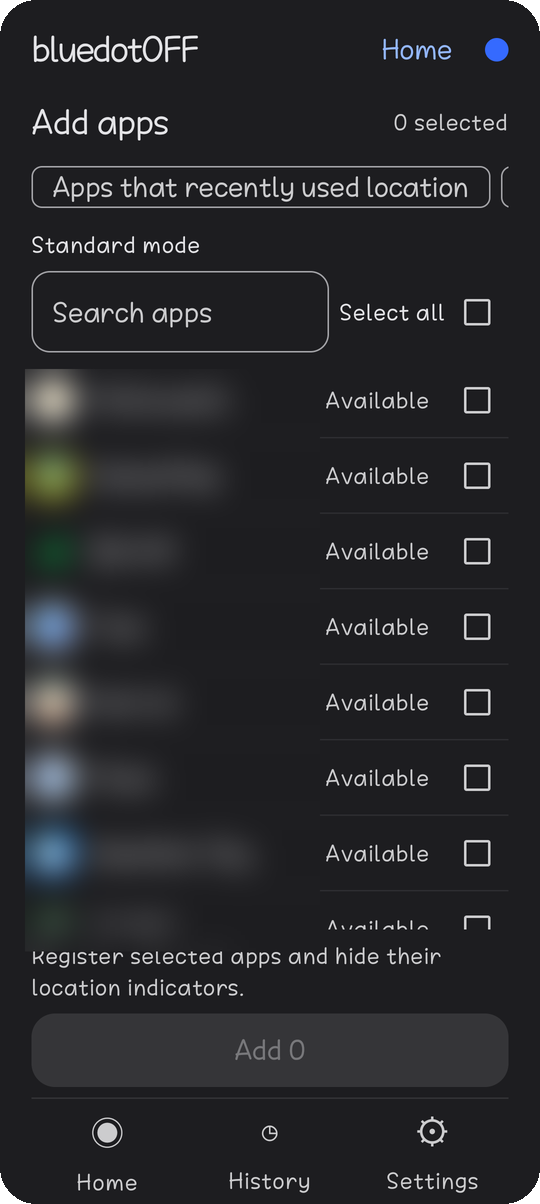
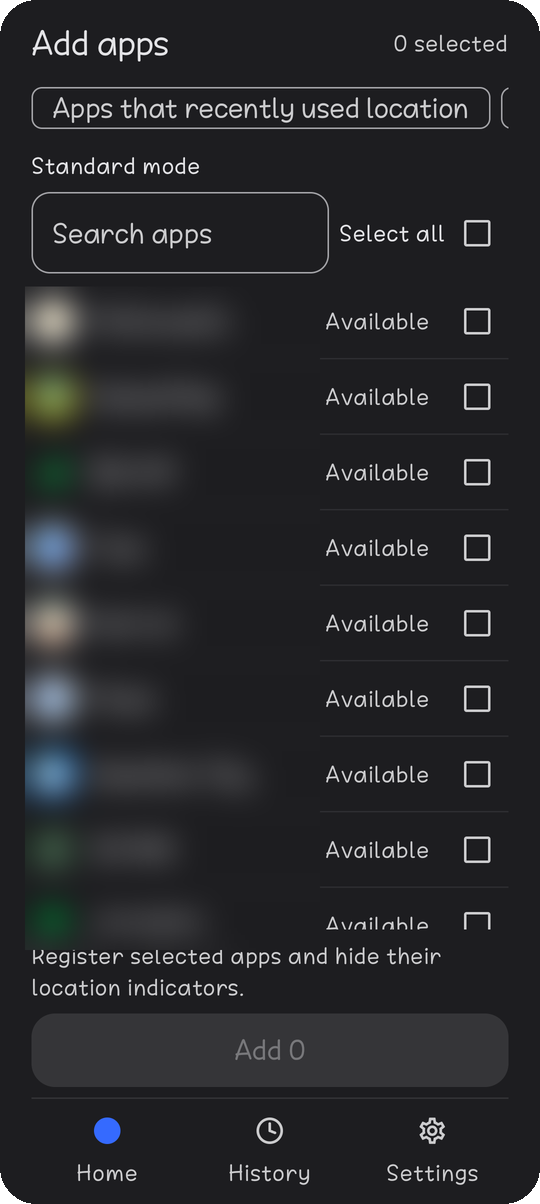
bluedotOFF 1.0.2: header only on Home and setup, blue-dot Home tab, less repeated wording

diff --git a/app/src/local/java/app/bluedotoff/BlueDotUi.kt b/app/src/local/java/app/bluedotoff/BlueDotUi.kt
@@ -21,6 +21,7 @@ import androidx.compose.foundation.shape.CircleShape
 import androidx.compose.foundation.shape.RoundedCornerShape
 import androidx.compose.foundation.verticalScroll
 import androidx.compose.material3.*
+import androidx.compose.material.icons.outlined.Settings
 import androidx.compose.runtime.*
 import androidx.compose.runtime.saveable.rememberSaveable
 import androidx.compose.ui.Alignment
@@ -49,7 +50,7 @@ import kotlinx.coroutines.launch
 
 private val DotBlue = BlueDotAppearance.dotBlue
 fun TargetState.label(): String = when(this) {
-    TargetState.APPLIED -> "bluedotOFF 적용 중"
+    TargetState.APPLIED -> "적용 중"
     TargetState.NOT_APPLIED -> "적용 안 됨"
     TargetState.PENDING_HIDE,TargetState.PENDING_RESTORE,TargetState.PENDING_SHOW -> "확인 필요"
     TargetState.NEEDS_REAPPLY_BOOT -> "재부팅 · 재적용 필요"
@@ -112,11 +113,12 @@ fun BlueDotApp(model: UiModel, navigate: (Page)->Unit, select: (String)->Unit, h
                 // the work overlay visually and from accessibility services.
                 val pageVisibility=if(model.busy&&!model.scopePreview)Modifier.alpha(0f).clearAndSetSemantics{} else Modifier
                 Column(Modifier.fillMaxSize().then(pageVisibility).padding(horizontal=if(wide)BlueDotAppearance.WIDE_GUTTER.dp else BlueDotAppearance.PAGE_GUTTER.dp)) {
-                    Row(Modifier.fillMaxWidth().heightIn(min=BlueDotAppearance.HEADER_HEIGHT.dp),verticalAlignment=Alignment.CenterVertically) {
+                    if(model.page==Page.HOME||model.gate!=Gate.READY)Row(Modifier.fillMaxWidth().heightIn(min=BlueDotAppearance.HEADER_HEIGHT.dp),verticalAlignment=Alignment.CenterVertically) {
                         Text(androidx.compose.ui.res.stringResource(R.string.brand_name),style=MaterialTheme.typography.headlineSmall,letterSpacing=(-0.8).sp,modifier=Modifier.weight(1f))
-                        if(model.page in listOf(Page.PICK,Page.RESTORE,Page.SHOW,Page.DETAIL,Page.REAPPLY,Page.HELP)) TextButton(onClick={navigate(Page.HOME)},enabled=!model.busy){Text("홈")}
+                        if(model.page==Page.HELP) TextButton(onClick={navigate(Page.HOME)},enabled=!model.busy){Text("홈")}
                         Box(Modifier.padding(start=12.dp).size(18.dp).background(DotBlue,CircleShape).semantics { contentDescription=UiText.text(context,"bluedotOFF 아이콘") })
                     }
+                    if(!(model.page==Page.HOME||model.gate!=Gate.READY))Spacer(Modifier.height(16.dp))
                     if(model.rechecking&&model.gate==Gate.READY&&!model.busy&&!(model.page==Page.PICK&&model.loadingApps)){
                         val sp=model.scanProgress
                         Column(Modifier.fillMaxWidth().padding(bottom=8.dp),verticalArrangement=Arrangement.spacedBy(4.dp)){
@@ -155,7 +157,7 @@ fun BlueDotApp(model: UiModel, navigate: (Page)->Unit, select: (String)->Unit, h
                     // Transparent so the bar follows the blue/system page background instead of floating as a gray block.
                     if(model.gate==Gate.READY)NavigationBar(containerColor=Color.Transparent,tonalElevation=0.dp) {
                         listOf(Page.HOME to "홈",Page.HISTORY to "기록",Page.SETTINGS to "설정").forEach{(page,label)->
-                            NavigationBarItem(selected=model.page==page,onClick={navigate(page)},enabled=!model.busy,icon={Text(when(page){Page.HOME->"◉";Page.HISTORY->"◷";else->"⚙"},fontSize=22.sp)},label={Text(label)})
+                            NavigationBarItem(selected=model.page==page,onClick={navigate(page)},enabled=!model.busy,icon={NavIcon(page)},label={Text(label)})
                         }
                     }
                 }
@@ -273,17 +275,18 @@ fun BlueDotApp(model: UiModel, navigate: (Page)->Unit, select: (String)->Unit, h
                     TextButton(onClick=open){Text("연결 준비")}
                 }
             }
-            Text(when{m.allLastVerifiedApplied->"bluedotOFF\n적용 완료";m.reapplyCount>0->"일부 앱의\n재적용이 필요해요";m.visibleEntries.any{it.enabled}->"일부 앱의\n상태 확인이 필요해요";else->"bluedotOFF\n미적용"},style=MaterialTheme.typography.displaySmall)
-            if(m.allLastVerifiedApplied)Text("${m.lastVerifiedAppliedCount}개 앱 bluedotOFF 적용 중",style=MaterialTheme.typography.bodyLarge,color=MaterialTheme.colorScheme.onSurfaceVariant)
+            Text(when{m.allLastVerifiedApplied->"적용 완료";m.reapplyCount>0->"일부 앱의\n재적용이 필요해요";m.visibleEntries.any{it.enabled}->"일부 앱의\n상태 확인이 필요해요";else->"미적용"},style=MaterialTheme.typography.displaySmall)
+            if(m.allLastVerifiedApplied)Text("${m.lastVerifiedAppliedCount}개 앱 적용 중",style=MaterialTheme.typography.bodyLarge,color=MaterialTheme.colorScheme.onSurfaceVariant)
             else if(m.visibleEntries.any{it.enabled}){
-                Text("${m.lastVerifiedAppliedCount}개 앱 bluedotOFF 적용 중",style=MaterialTheme.typography.bodyLarge,color=MaterialTheme.colorScheme.onSurfaceVariant)
+                Text("${m.lastVerifiedAppliedCount}개 앱 적용 중",style=MaterialTheme.typography.bodyLarge,color=MaterialTheme.colorScheme.onSurfaceVariant)
                 if(m.reapplyCount>0)Text("${m.reapplyCount}개 앱 · 재적용 필요",Modifier.fillMaxWidth().heightIn(min=48.dp).clip(RoundedCornerShape(12.dp)).clickable(role=androidx.compose.ui.semantics.Role.Button,onClick=showNeeded).padding(vertical=12.dp),style=MaterialTheme.typography.bodyMedium,color=MaterialTheme.colorScheme.primary)
                 if(m.otherCheckCount>0)Text("${m.otherCheckCount}개 앱 · 상태 확인 필요",style=MaterialTheme.typography.bodyMedium)
                 Text("완료된 앱은 유지하고, 필요한 앱만 확인해주세요.",style=MaterialTheme.typography.bodySmall,color=MaterialTheme.colorScheme.onSurfaceVariant)
             }else Text("신뢰하는 앱을 골라\n위치 표시만 가볍게 숨기세요.",style=MaterialTheme.typography.bodyLarge,color=MaterialTheme.colorScheme.onSurfaceVariant)
             if(m.lastCheckedAt>0L&&m.visibleEntries.any{it.enabled})Row(verticalAlignment=Alignment.CenterVertically){
                 val ctx=LocalContext.current
-                Text("${UiText.text(ctx,"마지막 확인")} ${UiText.text(ctx,accessAge(m.lastCheckedAt))}",style=MaterialTheme.typography.bodySmall,color=MaterialTheme.colorScheme.onSurfaceVariant,translate=false)
+                // Mid-sentence in English: "Last checked just now", not "Just now".
+                Text("${UiText.text(ctx,"마지막 확인")} ${UiText.text(ctx,accessAge(m.lastCheckedAt)).replaceFirstChar{it.lowercase()}}",style=MaterialTheme.typography.bodySmall,color=MaterialTheme.colorScheme.onSurfaceVariant,translate=false)
                 RefreshButton(m.rechecking,!m.busy&&m.canOperate,recheck)
             }
             m.recentHistoryApp?.let{a->
@@ -463,6 +466,23 @@ private fun pickerReason(a:DiscoveredApp,scope:ApplicationScope=ApplicationScope
     }
 }
 
+/** Bottom navigation icons share one 24dp frame so the three icons look the same size and the labels line up
+ *  (text glyphs such as ◷ and ⚙ had different heights). Home is the blue dot, the app's symbol. */
+@Composable private fun NavIcon(page:Page){
+    val color=LocalContentColor.current
+    Box(Modifier.size(24.dp),contentAlignment=Alignment.Center){
+        when(page){
+            Page.HOME->Box(Modifier.size(20.dp).background(DotBlue,CircleShape))
+            Page.HISTORY->androidx.compose.foundation.Canvas(Modifier.size(20.dp)){
+                val w=2.dp.toPx()
+                drawCircle(color,radius=size.minDimension/2-w/2,style=androidx.compose.ui.graphics.drawscope.Stroke(w))
+                drawLine(color,center,androidx.compose.ui.geometry.Offset(center.x,center.y-size.height*0.27f),w,cap=androidx.compose.ui.graphics.StrokeCap.Round)
+                drawLine(color,center,androidx.compose.ui.geometry.Offset(center.x+size.width*0.2f,center.y+size.height*0.08f),w,cap=androidx.compose.ui.graphics.StrokeCap.Round)
+            }
+            else->Icon(androidx.compose.material.icons.Icons.Outlined.Settings,contentDescription=null,modifier=Modifier.size(24.dp))
+        }
+    }
+}
 /** Small circular-arrow button; spins while the registered apps are being re-read. */
 @Composable private fun RefreshButton(spinning:Boolean,enabled:Boolean,onClick:()->Unit){
     val ctx=LocalContext.current;val color=MaterialTheme.colorScheme.primary

diff --git a/app/src/test/java/app/bluedotoff/UiRenderTest.kt b/app/src/test/java/app/bluedotoff/UiRenderTest.kt
@@ -163,7 +163,7 @@ class UiRenderTest {
         val entries=(0 until 3).map{base.copy(identity=base.identity.copy(packageName="demo.app$it"),label="앱 $it")}
         render("83-home-attention",model(applied=true).copy(entries=listOf(entries[0],entries[1].copy(state=TargetState.NEEDS_REAPPLY_POLICY),entries[2].copy(state=TargetState.SHIZUKU_REQUIRED))))
         compose.onNodeWithText("일부 앱의\n재적용이 필요해요").assertExists()
-        compose.onNodeWithText("1개 앱 bluedotOFF 적용 중").assertExists()
+        compose.onNodeWithText("1개 앱 적용 중").assertExists()
         compose.onNodeWithText("1개 앱 · 재적용 필요").assertExists()
         compose.onNodeWithText("1개 앱 · 상태 확인 필요").assertExists()
     }
@@ -226,7 +226,7 @@ class UiRenderTest {
         val outcome=BatchOutcome(true,listOf(BatchResult("demo.weather",base.entries.single())),base.entries,emptyList())
         render("74-completion-en",base.copy(connected=false,automaticReady=true,autoManagement=true,completion=outcome))
         compose.onNodeWithText(UiText.text(controller.get(),outcome.summary())).assertDoesNotExist()
-        compose.onNodeWithText("bluedotOFF applied · Last checked").assertExists()
+        compose.onNodeWithText("Applied · Last checked").assertExists()
         compose.onNodeWithText("Registered apps · 1").assertExists()
     }
     @Test @Config(fontScale=1.5f) fun progressIsReadableWithLargeText(){render("74-progress-large",model().copy(busy=true,progress=BatchProgress(35,70,BatchPhase.CHECKING)))}
@@ -258,6 +258,10 @@ class UiRenderTest {
         compose.onNodeWithContentDescription("Blue Dot").assertDoesNotExist()
     }
     @Test @Config(qualifiers="ko-rKR-w412dp-h915dp-night-xxhdpi") fun registeredListAndConnectionNoticeInDarkTheme(){render("79-home-dark-offline",model(applied=true).copy(connected=false,automaticReady=false))}
+    @Test @Config(qualifiers="en-rUS-w412dp-h915dp-xxhdpi") fun englishLastCheckedReadsAsOneSentence(){
+        render("79-home-en-last-checked",model(applied=true).copy(lastCheckedAt=System.currentTimeMillis()))
+        compose.onNodeWithText("Last checked just now").assertExists()
+    }
     @Test @Config(qualifiers="en-rUS-w412dp-h915dp-xxhdpi") fun simpleEnglishHomeAndHiddenPicker(){
         render("79-home-en",model(applied=true))
         val off=DiscoveredApp("demo.off","Example",10002,launcher=true,hasLocationDeclaration=true,indicator=IndicatorAssessment(IndicatorEligibility.EXEMPT_SYSTEM_USAGE,true,0x100))
@@ -311,7 +315,7 @@ class UiRenderTest {
     @Test fun uninstalledAppShowsAsNoActionNeeded(){
         val base=model(applied=true);val gone=base.entries.single().let{it.copy(identity=it.identity.copy(packageName="demo.gone"),label="삭제앱",state=TargetState.MISSING_TARGET,settlingVerified=false)}
         render("87-home-uninstalled",base.copy(entries=base.entries+gone))
-        compose.onNodeWithText("삭제앱").assertDoesNotExist();compose.onNodeWithText("등록한 앱 · 1개").assertExists();compose.onNodeWithText("1개 앱 bluedotOFF 적용 중").assertExists();compose.onNodeWithText("상태 확인 필요",substring=true).assertDoesNotExist()
+        compose.onNodeWithText("삭제앱").assertDoesNotExist();compose.onNodeWithText("등록한 앱 · 1개").assertExists();compose.onNodeWithText("1개 앱 적용 중").assertExists();compose.onNodeWithText("상태 확인 필요",substring=true).assertDoesNotExist()
     }
     @Test fun advancedSettingsListsOpenSourceLicenses(){
         render("88-settings",model(page=Page.SETTINGS))
@@ -347,13 +351,13 @@ class UiRenderTest {
     @Test fun blueHome(){render("05-blue-home",model());compose.onNodeWithText("앱 추가").assertExists()}
     @Test fun scopeChoiceDoesNotRewindProgressDuringFinalRead(){render("81-scope-final-read",model(gate=Gate.CHECKING).copy(scopeResolved=true));compose.onNodeWithText("연결 준비 · 11 / 11").assertExists();compose.onNodeWithText("연결 준비 · 10 / 11").assertDoesNotExist()}
     @Test fun applying(){render("06-applying",model().copy(busy=true));compose.onNodeWithText("적용하고 안전하게 확인하고 있어요").assertExists();compose.onNodeWithText("끝날 때까지 이 화면을 열어 두세요. 앱을 나가면 남은 앱은 바꾸지 않아요.").assertExists()}
-    @Test fun appliedHome(){render("07-applied-system-theme",model(applied=true));compose.onNodeWithText("bluedotOFF\n적용 완료").assertExists()}
+    @Test fun appliedHome(){render("07-applied-system-theme",model(applied=true));compose.onNodeWithText("적용 완료").assertExists()}
     @Test fun successfulHideUsesHomeSummaryAndRetainsClosureWarnings(){
         val base=model(applied=true)
         val done=BatchOutcome(true,listOf(BatchResult("demo.weather",base.entries.single())),base.entries,emptyList())
         render("24-home-applied",base.copy(completion=done))
         compose.onNodeWithText(done.summary()).assertDoesNotExist()
-        compose.onNodeWithText("1개 앱 bluedotOFF 적용 중").assertExists()
+        compose.onNodeWithText("1개 앱 적용 중").assertExists()
         compose.onNodeWithText("설정 변경 연결").assertDoesNotExist()
         render("24-home-closure-warning",base.copy(completion=done.copy(cleanupWarning="연결 종료 확인 필요"),wirelessWarning="연결 종료 확인 필요"))
         compose.onNodeWithText("연결 종료 확인 필요").assertExists()
@@ -392,7 +396,7 @@ class UiRenderTest {
     @Test fun unsupported(){render("12-unsupported",model(gate=Gate.UNSUPPORTED));compose.onNodeWithText("이 기기는 지원하지 않아요").assertExists();compose.onNodeWithText("bluedotOFF 적용").assertDoesNotExist()}
     @Test fun compatibilityPass(){render("13-ready",model().copy(entries=emptyList()));compose.onNodeWithText("준비 완료").assertExists()}
     @Test fun pickerAndSharedUid(){val e=model().entries.single();val s=Snapshot(e.identity,"날씨",listOf(e.identity.packageName,"shared.peer"),true,true,true,false,0x80301,0x301,0,4,4,false);render("14-picker-shared",model(page=Page.PICK).copy(candidates=listOf(s)));compose.onNodeWithText("다른 앱과 묶여 있어요 · 함께 선택돼요").assertExists();compose.onNodeWithText("현재 적용할 수 없는 앱",substring=true).assertDoesNotExist();compose.onNodeWithText("0개 추가").assertIsNotEnabled()}
-    @Test fun cachedAppliedIsNotDisplayedAsVerified(){render("17-cached-stale",model(applied=true).copy(connected=false,freshPackages=emptySet()));compose.onNodeWithText("Blue Dot\nbluedotOFF 적용 중").assertDoesNotExist();compose.onNodeWithText("bluedotOFF 적용 중 · 마지막 확인 기준").assertExists()}
+    @Test fun cachedAppliedIsNotDisplayedAsVerified(){render("17-cached-stale",model(applied=true).copy(connected=false,freshPackages=emptySet()));compose.onNodeWithText("Blue Dot\nbluedotOFF 적용 중").assertDoesNotExist();compose.onNodeWithText("적용 중 · 마지막 확인 기준").assertExists()}
     @Test fun multiSelectionSurvivesQueryAndReturn(){val m=model(page=Page.PICK);val id=m.entries.single().identity;val a=Snapshot(id,"날씨",listOf(id.packageName),true,true,true,false,0x80301,0x301,0,4,4,false);render("18-multiselect",m.copy(candidates=listOf(a),picked=setOf(id.packageName),query="no match",historyAvailable=true));compose.onNodeWithText("1개 추가").assertIsEnabled();compose.onNodeWithText("1개 선택됨").assertExists();compose.onNodeWithText("선택한 앱을 등록하고 파란 위치 표시를 숨겨요.").assertExists()}
     @Test fun safeDetail(){val e=model().entries.single();val s=Snapshot(e.identity,"날씨",listOf(e.identity.packageName),true,true,true,false,0x80301,0x301,0,4,4,false);render("15-safe-detail",model(page=Page.DETAIL).copy(selected=e.identity.packageName,candidates=listOf(s)));compose.onNodeWithText("bluedotOFF 재적용").assertIsEnabled()}
     @Test fun sharedUidDetailBlocksHide(){val e=model().entries.single();val s=Snapshot(e.identity,"날씨",listOf(e.identity.packageName,"shared.peer"),true,true,true,false,0x80301,0x301,0,4,4,false);render("16-blocked-detail",model(page=Page.DETAIL).copy(selected=e.identity.packageName,candidates=listOf(s)));compose.onNodeWithText("bluedotOFF 재적용").assertIsNotEnabled()}

diff --git a/app/src/test/java/app/bluedotoff/UiTextTest.kt b/app/src/test/java/app/bluedotoff/UiTextTest.kt
@@ -24,7 +24,7 @@ class UiTextTest {
     }
     @Test fun dynamicCountsAndCompletionTranslateWithoutTouchingValues(){
         assertEquals("35 / 70 apps checked · 50%",UiText.text(language("en"),"35 / 70개 확인 · 50%"))
-        assertEquals("bluedotOFF applied to 70 apps.",UiText.text(language("en"),"70개 앱에 bluedotOFF 적용 완료"))
+        assertEquals("Applied to 70 apps.",UiText.text(language("en"),"70개 앱 적용 완료"))
         assertEquals("Example app icon",UiText.text(language("en"),"Example app 아이콘"))
         assertEquals("카카오맵",UiText.text(language("en"),"카카오맵"))
     }
@@ -43,7 +43,7 @@ class UiTextTest {
         val entry=app.bluedotoff.core.Entry(id,"app",256,true,app.bluedotoff.core.TargetState.APPLIED,1,"fw","boot",true,settlingVerified=true)
         val model=UiModel(entries=listOf(entry),connected=false)
         assertTrue(model.allLastVerifiedApplied)
-        assertEquals("bluedotOFF applied · Last checked",UiText.text(language("en"),model.status(entry)))
+        assertEquals("Applied · Last checked",UiText.text(language("en"),model.status(entry)))
         assertFalse(model.copy(entries=listOf(entry.copy(state=app.bluedotoff.core.TargetState.NEEDS_REAPPLY_BOOT))).allLastVerifiedApplied)
     }
 }

diff --git a/app/src/main/java/app/bluedotoff/BatchRuntime.kt b/app/src/main/java/app/bluedotoff/BatchRuntime.kt
@@ -33,8 +33,8 @@ fun BatchOutcome.summary():String {
     val success=results.count{it.success}
     val failed=results.size-success
     return if(failed==0&&error.isBlank()) {
-        if(hide)"${success}개 앱에 bluedotOFF 적용 완료" else if(show)"${success}개 앱의 숨김을 풀었어요." else "${success}개 앱을 원래 표시 상태로 복원했어요."
+        if(hide)"${success}개 앱 적용 완료" else if(show)"${success}개 앱의 숨김을 풀었어요." else "${success}개 앱을 원래 표시 상태로 복원했어요."
     } else {
-        if(hide)"bluedotOFF 적용 ${success}개 · 확인 필요 ${failed}개" else if(show)"숨김 풀기 ${success}개 · 확인 필요 ${failed}개" else "원래 상태 복원 ${success}개 · 확인 필요 ${failed}개"
+        if(hide)"적용 ${success}개 · 확인 필요 ${failed}개" else if(show)"숨김 풀기 ${success}개 · 확인 필요 ${failed}개" else "원래 상태 복원 ${success}개 · 확인 필요 ${failed}개"
     }
 }

diff --git a/app/src/main/java/app/bluedotoff/UiModel.kt b/app/src/main/java/app/bluedotoff/UiModel.kt
@@ -92,8 +92,8 @@ data class UiModel(val gate: Gate = Gate.CHECKING, val page: Page = Page.HOME, v
     }
     fun status(e:Entry) = if(e.state==TargetState.APPLIED) when {
         !e.settlingVerified -> "적용 확인 필요"
-        connected&&e.identity.packageName in freshPackages -> "bluedotOFF 적용 중"
-        else -> "bluedotOFF 적용 중 · 마지막 확인 기준"
+        connected&&e.identity.packageName in freshPackages -> "적용 중"
+        else -> "적용 중 · 마지막 확인 기준"
     } else e.state.label()
 }
 

diff --git a/AGENTS.md b/AGENTS.md
@@ -212,6 +212,7 @@ those files; bump `versionName`/`versionCode` in `app/build.gradle.kts` first.
 - Home card "파란 위치 표시가 꺼진 앱 N개" has "닫기" (owner: it showed every time); closing is permanent (pref ui-state/leftOffCardClosed), Settings keeps the entry. Device-tested: closed, force-stopped, reopened -> stays closed.
 - Owner decision (2026-10-11, supersedes the two entries above on naming/first-use/home card): no first-use question and no Home card; the feature lives only in Settings as "숨김이 남은 앱 (재설치 시에만)" -> page "숨김이 남은 앱", rows "숨김 남음 · 기록 없음", action "숨김 풀기". `usedBefore`/`leftOffCardClosed` removed (old prefs keys on devices are ignored).
 - Final 1.0.1 copy (owner): welcome first line "앱은 최소한의 권한으로 작동해요. 그래서 일부 앱은 스스로 설정을 바꿔서 숨김이 짧은 주기로 풀릴 수 있어요."; Settings reapply notification adds "절전 모드에서는 알림이 오지 않을 수 있어요." (README/CHANGELOG updated).
+- 1.0.2 (versionCode 29, owner requests 2026-10-11): the top header row (brand + dot) only on Home and while not set up (Gate != READY); other pages start with their own title (HEADER "홈" button only on Help during setup). Bottom navigation icons share a 24dp frame (`NavIcon`: Home = blue dot, History = drawn clock, Settings = material-icons-core outlined gear, no new dependency) so labels line up. Home no longer repeats "bluedotOFF" under the header ("적용 완료", "미적용", "N개 앱 적용 중", status "적용 중"; batch summary "적용 N개 · 확인 필요 M개"). English "Last checked just now" (lowercased age). README screenshots retaken (ko + en), English before/after image `docs/screenshots/before-after-en.png`.
 - Not done (suggested later): splitting `MainActivity`, reformatting dense code, moving i18n to
   `strings.xml`, tidying the root research folder (`bluedotOFF_audit.zip`, `bluedotoff_filelist.txt`).
   Not device-tested in this session.

diff --git a/README.en.md b/README.en.md
@@ -2,7 +2,7 @@
 
 [한국어](README.md) | **English**
 
-**[⬇ Download the latest APK](https://github.com/mattewbel/bluedotOFF/releases/latest)** — get `bluedotOFF-1.0.1-release.apk` under Assets.
+**[⬇ Download the latest APK](https://github.com/mattewbel/bluedotOFF/releases/latest)** — get `bluedotOFF-1.0.2-release.apk` under Assets.
 
 An app for Samsung One UI 9 (Android 17) phones that **hides the blue location indicator (Blue Dot) only for the apps you choose**.
 Location permissions and location history stay as they are. bluedotOFF changes a single setting that controls the status bar indicator, and you can undo it at any time.
@@ -14,7 +14,7 @@ Location permissions and location history stay as they are. bluedotOFF changes a
 
 ## What it does
 
-<p align="center"><img src="docs/screenshots/before-after.png" width="640" alt="Before: a blue location dot appears in the status bar. After: it does not."></p>
+<p align="center"><img src="docs/screenshots/before-after-en.png" width="640" alt="Before: a blue location dot appears in the status bar. After: it does not."></p>
 
 | Home | Add apps | Settings |
 |:---:|:---:|:---:|
@@ -48,7 +48,7 @@ bluedotOFF has one goal:
 
 ## Install
 
-Download the latest APK (`bluedotOFF-1.0.1-release.apk`) from [Releases](../../releases) and install it. You may need to allow "Install unknown apps" the first time.
+Download the latest APK (`bluedotOFF-1.0.2-release.apk`) from [Releases](../../releases) and install it. You may need to allow "Install unknown apps" the first time.
 
 ## Requirements
 

diff --git a/docs/CHANGELOG.md b/docs/CHANGELOG.md
@@ -2,6 +2,15 @@
 
 이 파일은 1.0.0까지의 README를 그대로 옮긴 개발·검증 기록입니다. 사용법은 [README](../README.md)를 보세요. (보고서 링크만 이 폴더 기준으로 고쳤습니다.)
 
+# bluedotOFF 1.0.2
+
+1.0.2는 화면 정리 업데이트입니다. 기능과 안전장치는 1.0.1과 같습니다.
+
+- **맨 윗줄 정리:** "bluedotOFF"와 파란 점이 있는 맨 윗줄은 홈과 연결 설정 화면에만 둡니다. 앱 추가·복원·기록·설정 등 나머지 화면은 화면 제목부터 시작해 한 번에 더 많은 내용이 보입니다. 위쪽의 "홈" 버튼은 아래 메뉴와 겹쳐서 없앴습니다(연결 설정 중 도움말에서는 유지).
+- **아래 메뉴:** 홈 아이콘을 앱 심볼인 파란 점으로 바꾸고, 홈·기록·설정 아이콘을 같은 크기로 맞춰 글자 높이도 맞췄습니다.
+- **홈 문구:** 맨 윗줄의 "bluedotOFF"와 겹치지 않게 "적용 완료", "미적용", "N개 앱 적용 중", "적용 중 · 마지막 확인 기준"으로 줄였습니다.
+- **영어:** "Last checked Just now"를 "Last checked just now"로 고쳤습니다.
+
 # bluedotOFF 1.0.1
 
 1.0.1은 1.0.0 공개 후 사용자 피드백과 실기기 측정을 반영한 업데이트입니다. 안전장치(쓰기 전 원래 상태 저장, 직전 재확인, 즉시·0.5초·1.5초 확인, 실패 시 복원)는 바꾸지 않았습니다.

diff --git a/README.md b/README.md
@@ -2,7 +2,7 @@
 
 **한국어** | [English](README.en.md)
 
-**[⬇ 최신 APK 다운로드](https://github.com/mattewbel/bluedotOFF/releases/latest)** — Assets에서 `bluedotOFF-1.0.1-release.apk`를 받으세요.
+**[⬇ 최신 APK 다운로드](https://github.com/mattewbel/bluedotOFF/releases/latest)** — Assets에서 `bluedotOFF-1.0.2-release.apk`를 받으세요.
 
 Samsung One UI 9 (Android 17) 휴대폰에서 **내가 고른 앱의 파란 위치 표시(Blue Dot)만 숨기는 앱**입니다.
 앱의 위치 권한과 위치 사용 기록은 그대로 두고, 상태 표시줄에 보이는 표시 설정 하나만 바꿉니다. 언제든지 원래 상태로 되돌릴 수 있습니다.
@@ -48,7 +48,7 @@ bluedotOFF의 목표는 이 하나입니다.
 
 ## 설치
 
-[Releases](../../releases)에서 최신 APK(`bluedotOFF-1.0.1-release.apk`)를 받아 설치합니다. 처음 설치할 때 "출처를 알 수 없는 앱 설치" 허용이 필요할 수 있습니다.
+[Releases](../../releases)에서 최신 APK(`bluedotOFF-1.0.2-release.apk`)를 받아 설치합니다. 처음 설치할 때 "출처를 알 수 없는 앱 설치" 허용이 필요할 수 있습니다.
 
 ## 필요한 것
 
